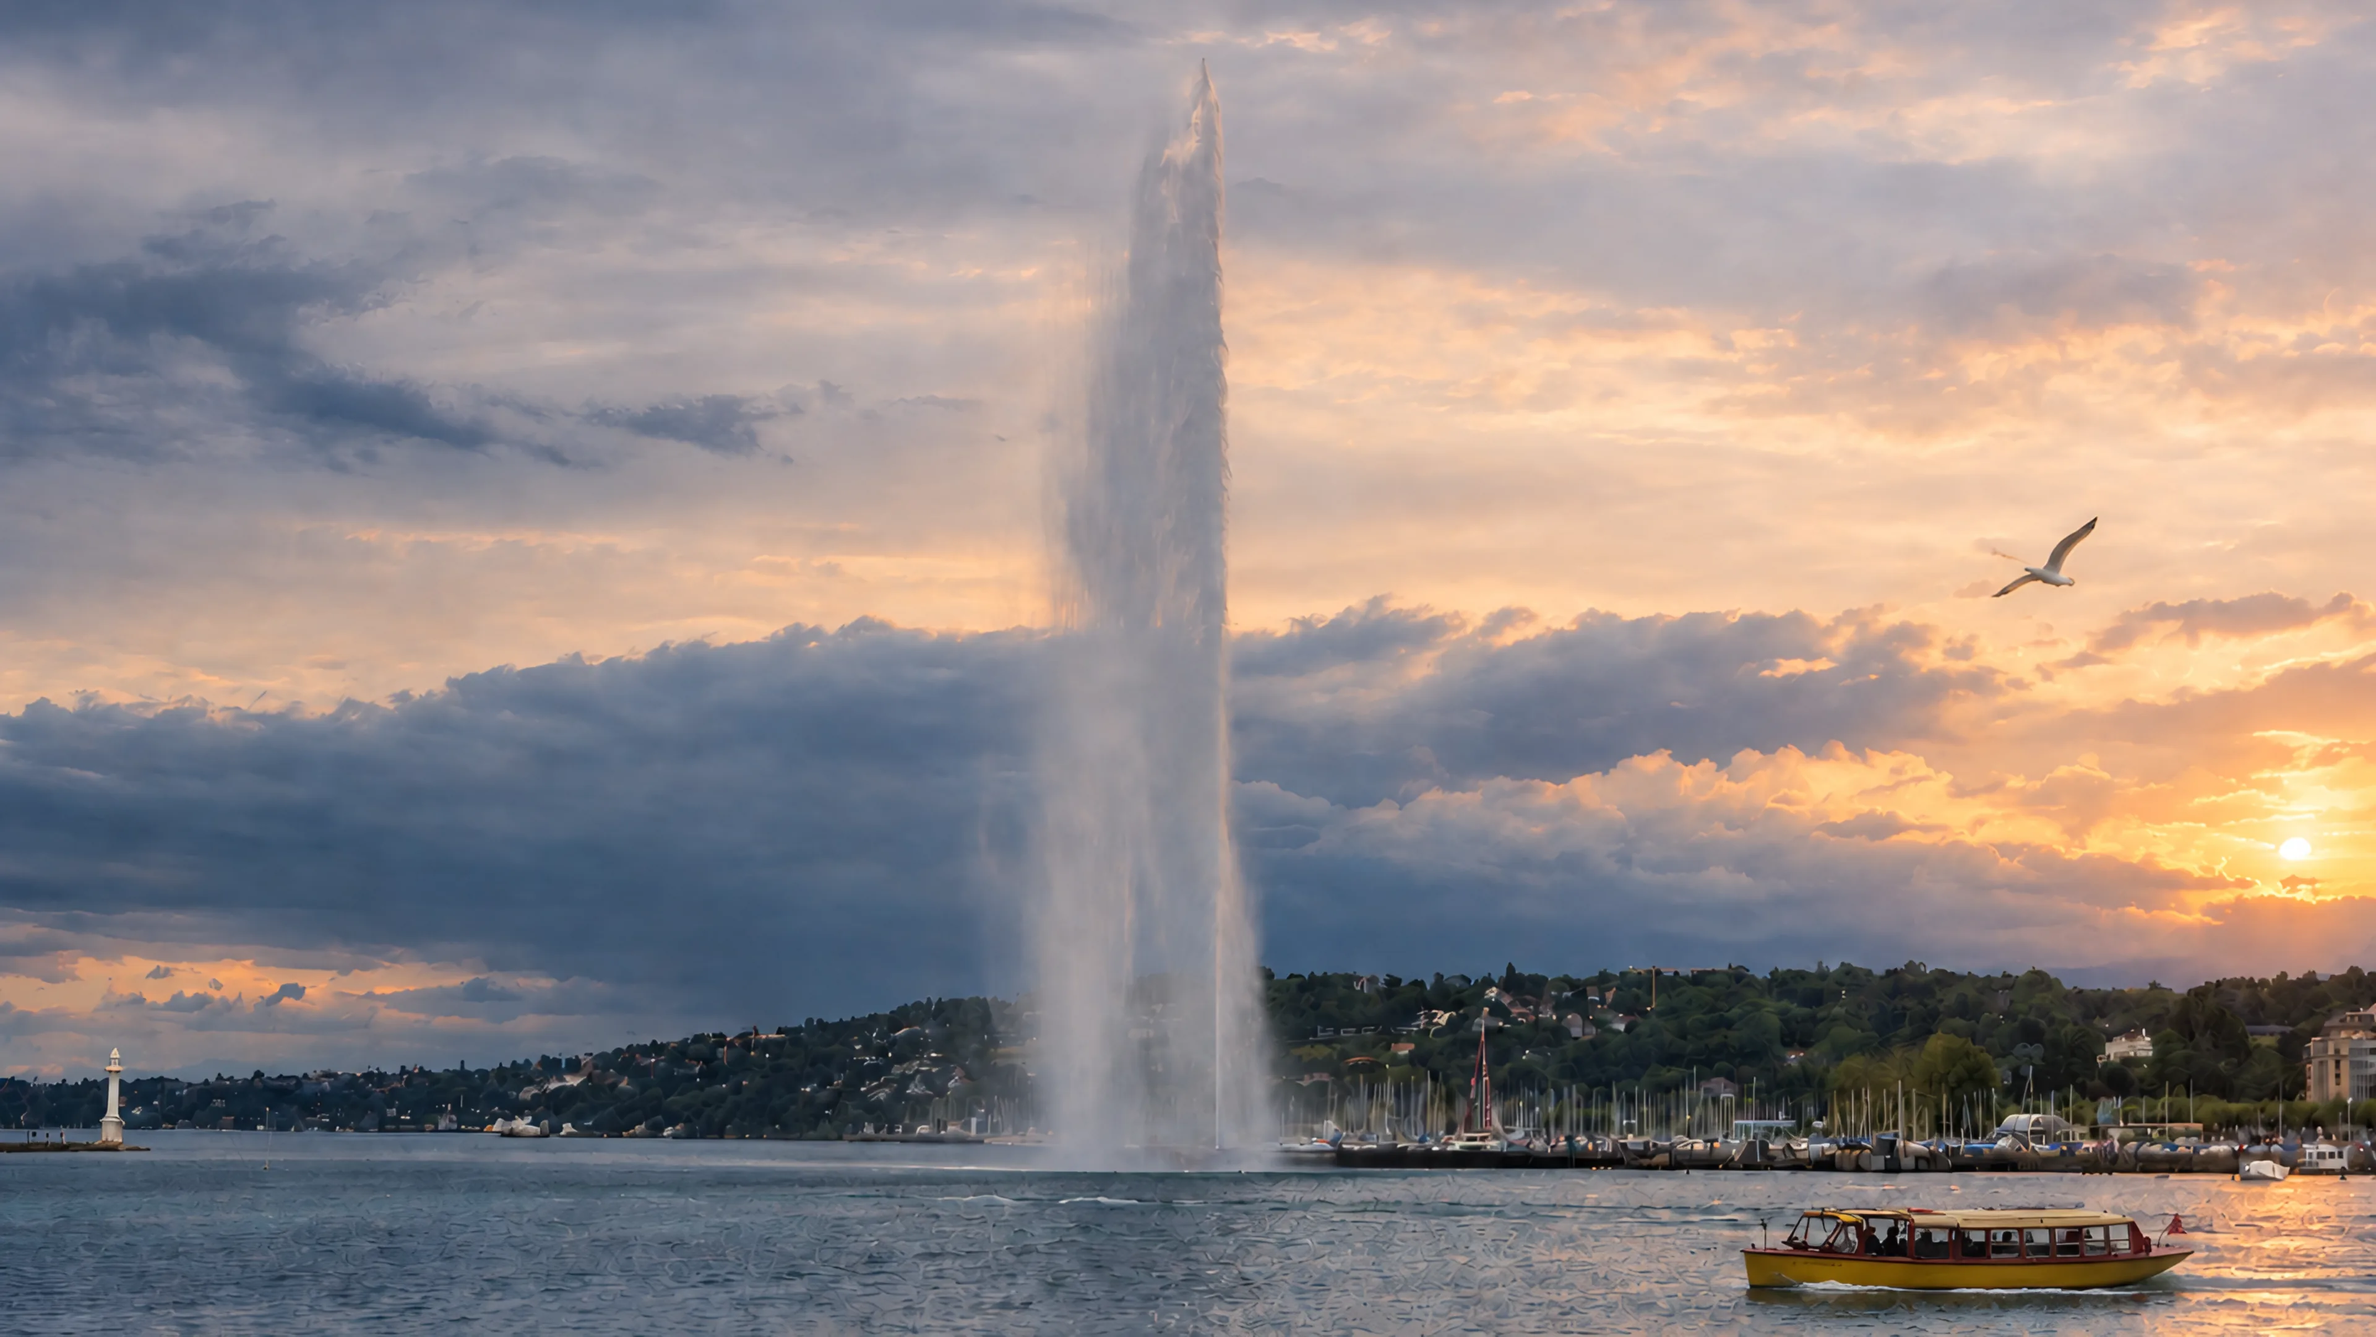
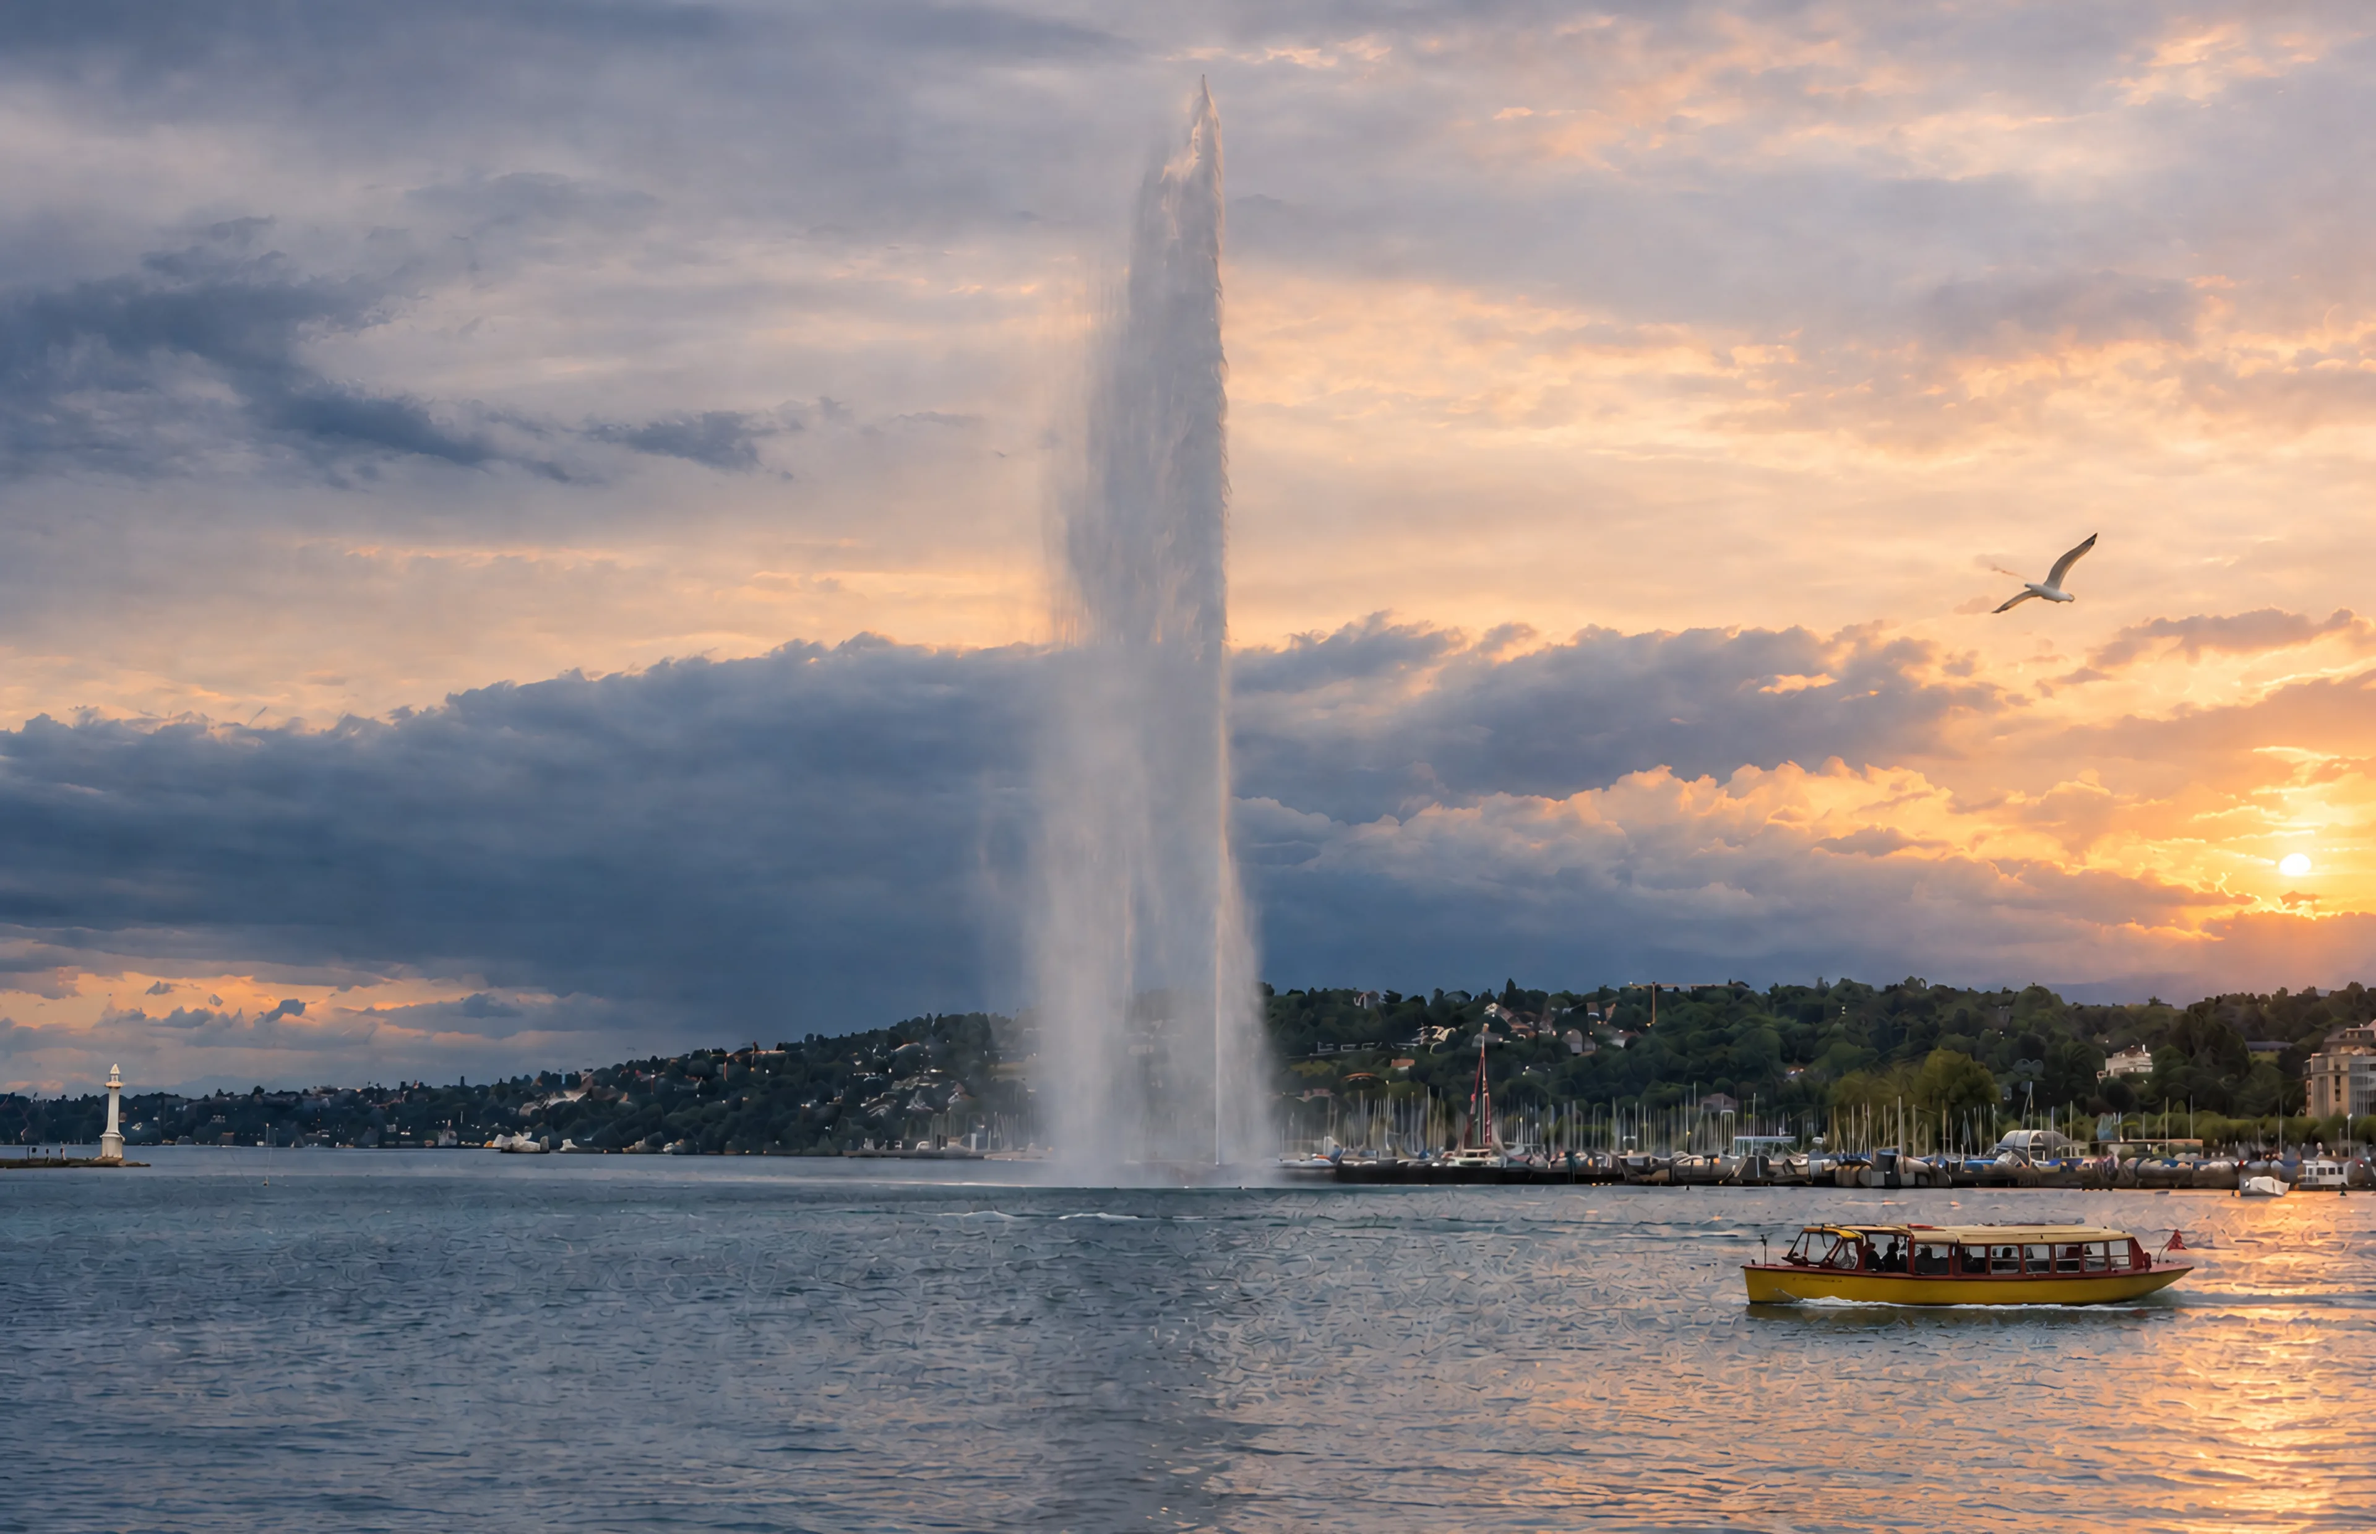
Photo d'accueil : cadrage plus haut et zoom adouci pour garder le bateau visible
Claude-Session: https://claude.ai/code/session_01QZan2kUspiSA3QS6UPtvcC

diff --git a/accueil.html b/accueil.html
@@ -130,7 +130,7 @@
   /* ---------- Hero ---------- */
   .hero{position:relative;min-height:max(640px,100svh);display:flex;flex-direction:column;justify-content:flex-end;overflow:hidden;background:#1d1626;color:#fff;}
   .hero-media{position:absolute;inset:0;}
-  .hero-media img{width:100%;height:100%;object-fit:cover;object-position:58% 45%;animation:zoom 28s ease-out infinite alternate;transform-origin:56% 62%;}
+  .hero-media img{width:100%;height:100%;object-fit:cover;object-position:58% 42%;animation:zoom 28s ease-out infinite alternate;transform-origin:56% 50%;}
   .hero-shade{position:absolute;inset:0;background:
     linear-gradient(180deg,rgba(12,10,16,.55) 0%,rgba(12,10,16,0) 20%),
     linear-gradient(90deg,rgba(12,10,16,.72) 0%,rgba(12,10,16,.34) 45%,rgba(12,10,16,0) 70%),
@@ -147,7 +147,7 @@
   .hero-foot .scroll{display:flex;align-items:center;gap:10px;}
   .hero-foot .scroll i{display:block;width:1px;height:22px;background:rgba(255,255,255,.35);position:relative;overflow:hidden;}
   .hero-foot .scroll i::after{content:"";position:absolute;left:0;top:-100%;width:1px;height:100%;background:#fff;animation:drip 2.4s var(--ease) infinite;}
-  @keyframes zoom{from{transform:scale(1.03)}to{transform:scale(1.13)}}
+  @keyframes zoom{from{transform:scale(1.02)}to{transform:scale(1.07)}}
   @keyframes drip{0%{top:-100%}60%,100%{top:100%}}
   @keyframes rise{from{opacity:0;transform:translateY(22px)}to{opacity:1;transform:none}}
   .rise{animation:rise 1s var(--ease) both;}
@@ -673,7 +673,7 @@ body.menu-open .haut{opacity:0;pointer-events:none}
 <!-- HERO -->
 <section class="hero on-dark" aria-labelledby="hero-title">
   <div class="hero-media">
-    <img src="images/geneve-jet-deau.webp" srcset="images/geneve-jet-deau.webp 1600w, images/geneve-jet-deau-3200.webp 3200w, images/geneve-jet-deau-3840.webp 3840w" sizes="100vw" alt="Le Jet d'eau de Genève au coucher du soleil, nuages dorés au-dessus du lac et des quais" width="1600" height="900" fetchpriority="high">
+    <img src="images/geneve-jet-deau.webp" srcset="images/geneve-jet-deau.webp 1600w, images/geneve-jet-deau-3200.webp 3200w, images/geneve-jet-deau-3840.webp 3840w" sizes="100vw" alt="Le Jet d'eau de Genève au coucher du soleil, nuages dorés au-dessus du lac et des quais" width="1600" height="1033" fetchpriority="high">
   </div>
   <div class="hero-shade"></div>
   <div class="wrap hero-inner">
@@ -1058,7 +1058,7 @@ body.menu-open .haut{opacity:0;pointer-events:none}
 <!-- 09 CONTACT -->
 <section id="contact" class="section contact on-dark" aria-labelledby="t-contact">
   <div class="contact-media" aria-hidden="true">
-    <img src="images/geneve-jet-deau.webp" srcset="images/geneve-jet-deau.webp 1600w, images/geneve-jet-deau-3200.webp 3200w, images/geneve-jet-deau-3840.webp 3840w" sizes="100vw" alt="" width="1600" height="900" loading="lazy">
+    <img src="images/geneve-jet-deau.webp" srcset="images/geneve-jet-deau.webp 1600w, images/geneve-jet-deau-3200.webp 3200w, images/geneve-jet-deau-3840.webp 3840w" sizes="100vw" alt="" width="1600" height="1033" loading="lazy">
   </div>
   <div class="wrap">
     <p class="marker reveal"><b>09</b><span>Contact</span></p>

diff --git a/404.html b/404.html
@@ -21,7 +21,7 @@
   a{color:inherit;text-decoration:none;}
   .wordmark{display:block;height:15px;aspect-ratio:771/150;background:currentColor;-webkit-mask:url(/images/gefais-mot.svg) center/contain no-repeat;mask:url(/images/gefais-mot.svg) center/contain no-repeat;}
   .page{position:relative;min-height:100%;display:flex;flex-direction:column;overflow:hidden;}
-  .bg{position:absolute;inset:0;width:100%;height:100%;object-fit:cover;object-position:50% 45%;animation:kenburns 24s ease-out infinite alternate;transform-origin:50% 60%;}
+  .bg{position:absolute;inset:0;width:100%;height:100%;object-fit:cover;object-position:50% 42%;animation:kenburns 24s ease-out infinite alternate;transform-origin:50% 50%;}
   .shade{position:absolute;inset:0;background:linear-gradient(90deg,rgba(12,10,16,.82) 0%,rgba(12,10,16,.55) 50%,rgba(12,10,16,.25) 100%),linear-gradient(0deg,rgba(12,10,16,.6) 0%,rgba(12,10,16,0) 45%);}
   .inner{position:relative;z-index:1;flex:1;width:100%;max-width:1200px;margin:0 auto;padding:32px 40px 40px;display:flex;flex-direction:column;}
   .brand{display:flex;align-items:center;gap:10px;font-family:'Archivo',sans-serif;font-size:19px;font-weight:800;letter-spacing:-.3px;}
@@ -34,7 +34,7 @@
   .foot{display:flex;justify-content:space-between;align-items:center;gap:16px;flex-wrap:wrap;font-size:13px;color:rgba(255,255,255,.7);}
   .foot a{transition:color .15s;}
   .foot a:hover{color:#fff;}
-  @keyframes kenburns{from{transform:scale(1.02)}to{transform:scale(1.12)}}
+  @keyframes kenburns{from{transform:scale(1.02)}to{transform:scale(1.07)}}
   @keyframes rise{from{opacity:0;transform:translateY(18px)}to{opacity:1;transform:none}}
   .content > *{animation:rise .9s cubic-bezier(.2,.7,.2,1) both;}
   .content > *:nth-child(2){animation-delay:.12s;}

diff --git a/index.html b/index.html
@@ -32,7 +32,7 @@
   a{color:inherit;text-decoration:none;}
   .wordmark{display:block;height:15px;aspect-ratio:771/150;background:currentColor;-webkit-mask:url(images/gefais-mot.svg) center/contain no-repeat;mask:url(images/gefais-mot.svg) center/contain no-repeat;}
   .page{position:relative;min-height:100%;display:flex;flex-direction:column;overflow:hidden;}
-  .bg{position:absolute;inset:0;width:100%;height:100%;object-fit:cover;object-position:50% 45%;animation:kenburns 24s ease-out infinite alternate;transform-origin:50% 60%;}
+  .bg{position:absolute;inset:0;width:100%;height:100%;object-fit:cover;object-position:50% 42%;animation:kenburns 24s ease-out infinite alternate;transform-origin:50% 50%;}
   .shade{position:absolute;inset:0;background:linear-gradient(90deg,rgba(12,10,16,.82) 0%,rgba(12,10,16,.55) 50%,rgba(12,10,16,.25) 100%),linear-gradient(0deg,rgba(12,10,16,.6) 0%,rgba(12,10,16,0) 45%);}
   .inner{position:relative;z-index:1;flex:1;width:100%;max-width:1200px;margin:0 auto;padding:32px 40px 40px;display:flex;flex-direction:column;}
   .brand{display:flex;align-items:center;gap:10px;font-family:'Archivo',sans-serif;font-size:19px;font-weight:800;letter-spacing:-.3px;}
@@ -46,7 +46,7 @@
   .foot a{transition:color .15s;}
   .foot a:hover{color:#fff;}
   .foot .links{display:flex;gap:22px;flex-wrap:wrap;}
-  @keyframes kenburns{from{transform:scale(1.02)}to{transform:scale(1.12)}}
+  @keyframes kenburns{from{transform:scale(1.02)}to{transform:scale(1.07)}}
   @keyframes rise{from{opacity:0;transform:translateY(18px)}to{opacity:1;transform:none}}
   .content > *{animation:rise .9s cubic-bezier(.2,.7,.2,1) both;}
   .content > *:nth-child(2){animation-delay:.12s;}
